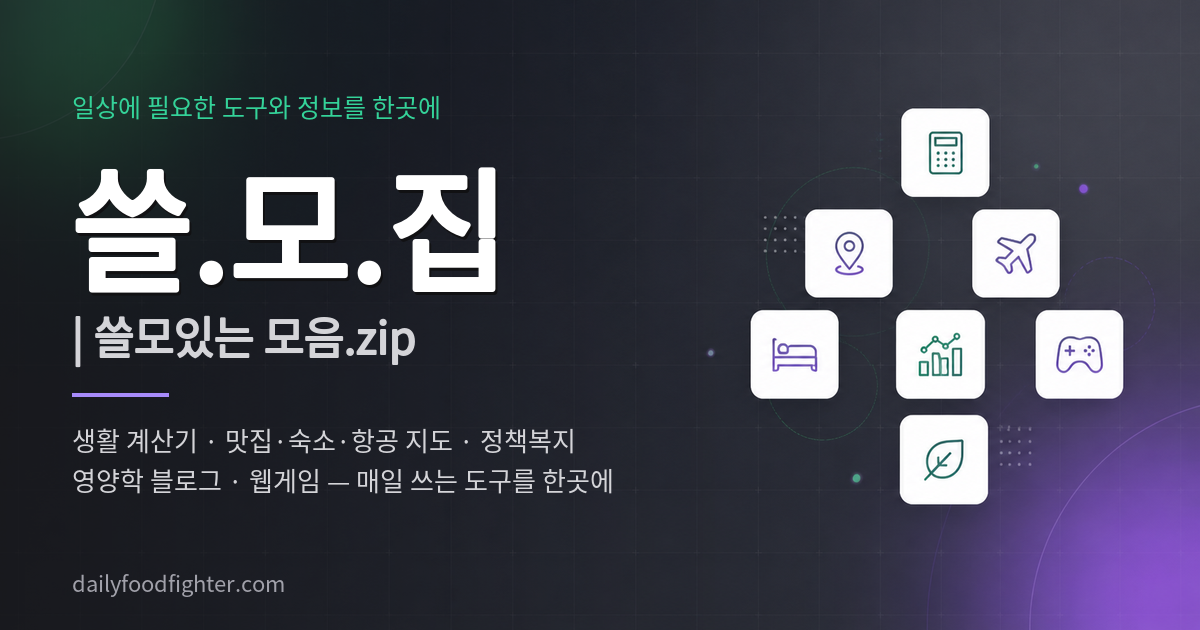
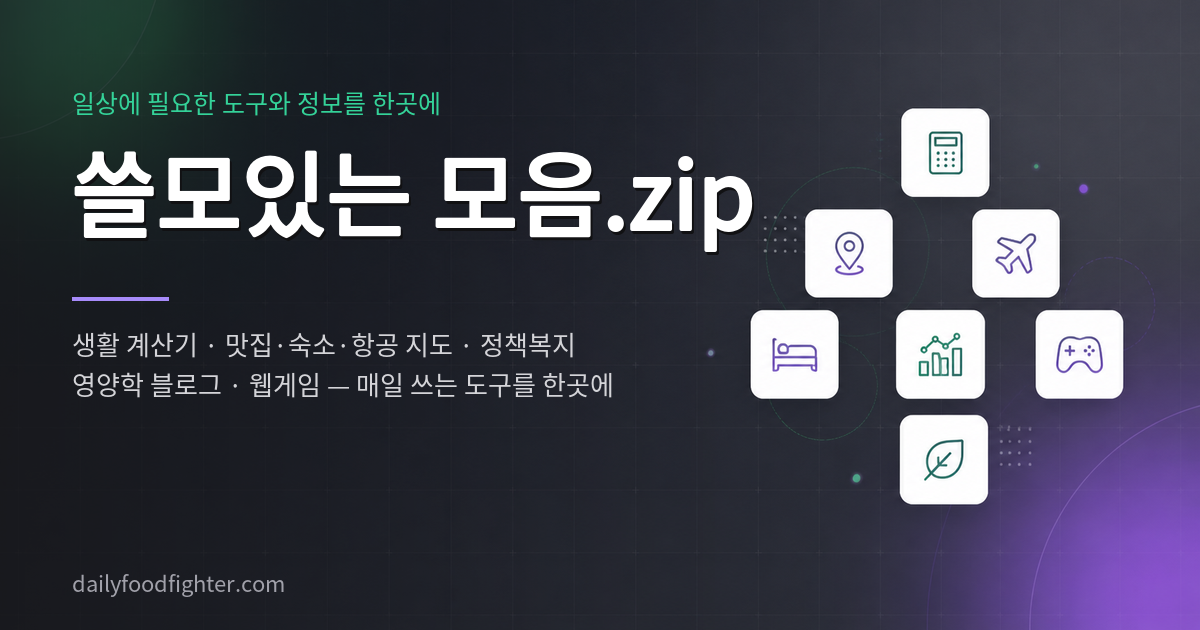
feat(home): 메인 이름을 '쓸모있는 모음.zip' 단독으로 변경 — 굵기 900→700, OG 이미지 재합성

Changed region(s): [[0.0617, 0.2413, 0.6475, 0.6333], [0.0617, 0.6635, 0.5242, 0.7841], [0.0617, 0.1508, 0.37, 0.2111]]

diff --git a/index.html b/index.html
@@ -1,23 +1,23 @@
 ---
 layout: default
-title: "쓸.모.집 | 쓸모있는 모음.zip — 생활 계산기·여행·복지·웹게임"
-description: "DailyFoodFighter 쓸모집에서 생활 계산기, 영양학 블로그, 맛집 지도, 여행 마일리지, 정책·복지 정보와 게임을 한곳에서 찾아보세요."
+title: "쓸모있는 모음.zip — 생활 계산기·여행·복지·웹게임"
+description: "DailyFoodFighter의 쓸모있는 모음.zip에서 생활 계산기, 영양학 블로그, 맛집 지도, 여행 마일리지, 정책·복지 정보와 게임을 한곳에서 찾아보세요."
 lang: ko
 portal: true
-site_name: "쓸.모.집"
-og_title: "쓸.모.집 | 쓸모있는 모음.zip"
-og_description: "생활 계산기, 맛집·숙소·항공 지도, 정책·복지 매칭, 영양학 블로그, 웹게임까지 — 일상에 필요한 도구와 정보를 한곳에 모은 쓸.모.집입니다."
+site_name: "쓸모있는 모음.zip"
+og_title: "쓸모있는 모음.zip"
+og_description: "생활 계산기, 맛집·숙소·항공 지도, 정책·복지 매칭, 영양학 블로그, 웹게임까지 — 일상에 필요한 도구와 정보를 한곳에 모았습니다."
 og_image: "/assets/images/og-sseulmojip.png"
 og_image_width: 1200
 og_image_height: 630
-og_image_alt: "쓸.모.집 | 쓸모있는 모음.zip — 생활 계산기·지도·항공·정책복지·웹게임 포털"
+og_image_alt: "쓸모있는 모음.zip — 생활 계산기·지도·항공·정책복지·웹게임 포털"
 twitter_card: "summary_large_image"
 permalink: /
 ---
 
 <div class="living-guide">
   <section class="living-guide__intro" aria-labelledby="living-guide-title">
-    <h1 id="living-guide-title"><span class="living-guide__title-main">쓸.모.집</span><span class="living-guide__title-sub">| 쓸모있는 모음.zip</span></h1>
+    <h1 id="living-guide-title"><span class="living-guide__title-main">쓸모있는 모음.zip</span></h1>
     <p class="living-guide__lead">일상에 필요한 도구와 정보를 한곳에</p>
     <p class="living-guide__summary">영양 정보부터 생활 계산, 맛집과 여행, 정책·복지까지 일상에 유용한 서비스를 모았습니다.</p>
   </section>

diff --git a/assets/css/style.css b/assets/css/style.css
@@ -643,8 +643,7 @@ body {
 }
 
 .living-guide__intro h1 { color: #fff; font-size: 1rem; letter-spacing: -.02em; line-height: 1.3; }
-.living-guide__title-main { font-size: clamp(2.55rem, 7vw, 3.5rem); font-weight: 900; letter-spacing: -.055em; line-height: 1.3; }
-.living-guide__title-sub { margin-left: .38em; color: #d4d4d8; font-size: clamp(1.05rem, 1.9vw, 1.55rem); font-weight: 700; letter-spacing: -.01em; white-space: nowrap; }
+.living-guide__title-main { display: inline-block; font-size: clamp(2.05rem, 4.4vw, 3.05rem); font-weight: 700; letter-spacing: -.035em; line-height: 1.28; }
 .living-guide__lead { margin-top: 8px; font-size: 1.1rem; font-weight: 700; }
 .living-guide__summary { margin-top: 2px; color: #e4e4e7; font-size: .94rem; }
 
@@ -734,8 +733,7 @@ body {
   .living-guide-site .site-nav a { flex: 0 0 auto; font-size: .88rem; }
   .living-guide__intro { padding: 16px 17px 18px; }
   .living-guide__lead { font-size: 1rem; }
-  .living-guide__title-main { font-size: clamp(2.1rem, 10.5vw, 2.55rem); }
-  .living-guide__title-sub { font-size: .98rem; }
+  .living-guide__title-main { font-size: clamp(1.72rem, 8.6vw, 2.2rem); }
   .living-guide__summary { font-size: .88rem; }
   .living-guide__section-heading { align-items: flex-start; flex-direction: column; gap: 5px; }
   .living-guide__grid { grid-template-columns: repeat(2, minmax(0, 1fr)); }
